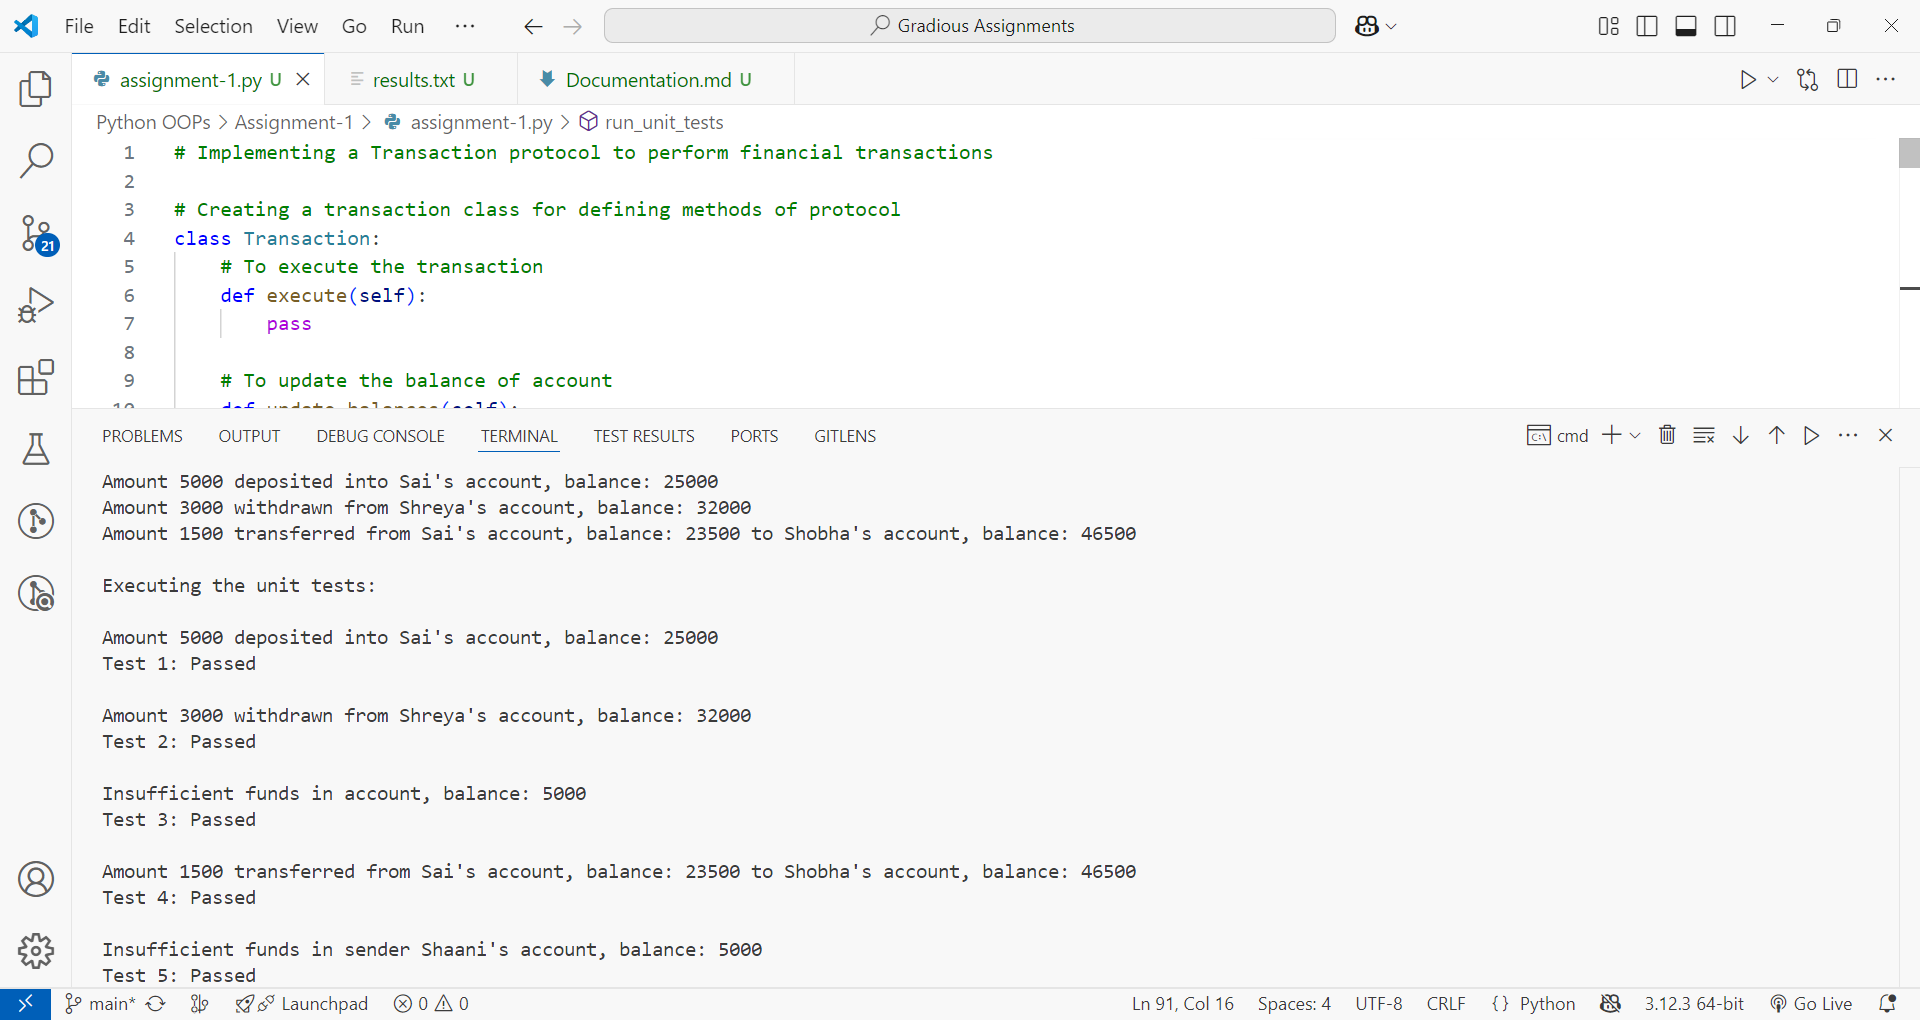
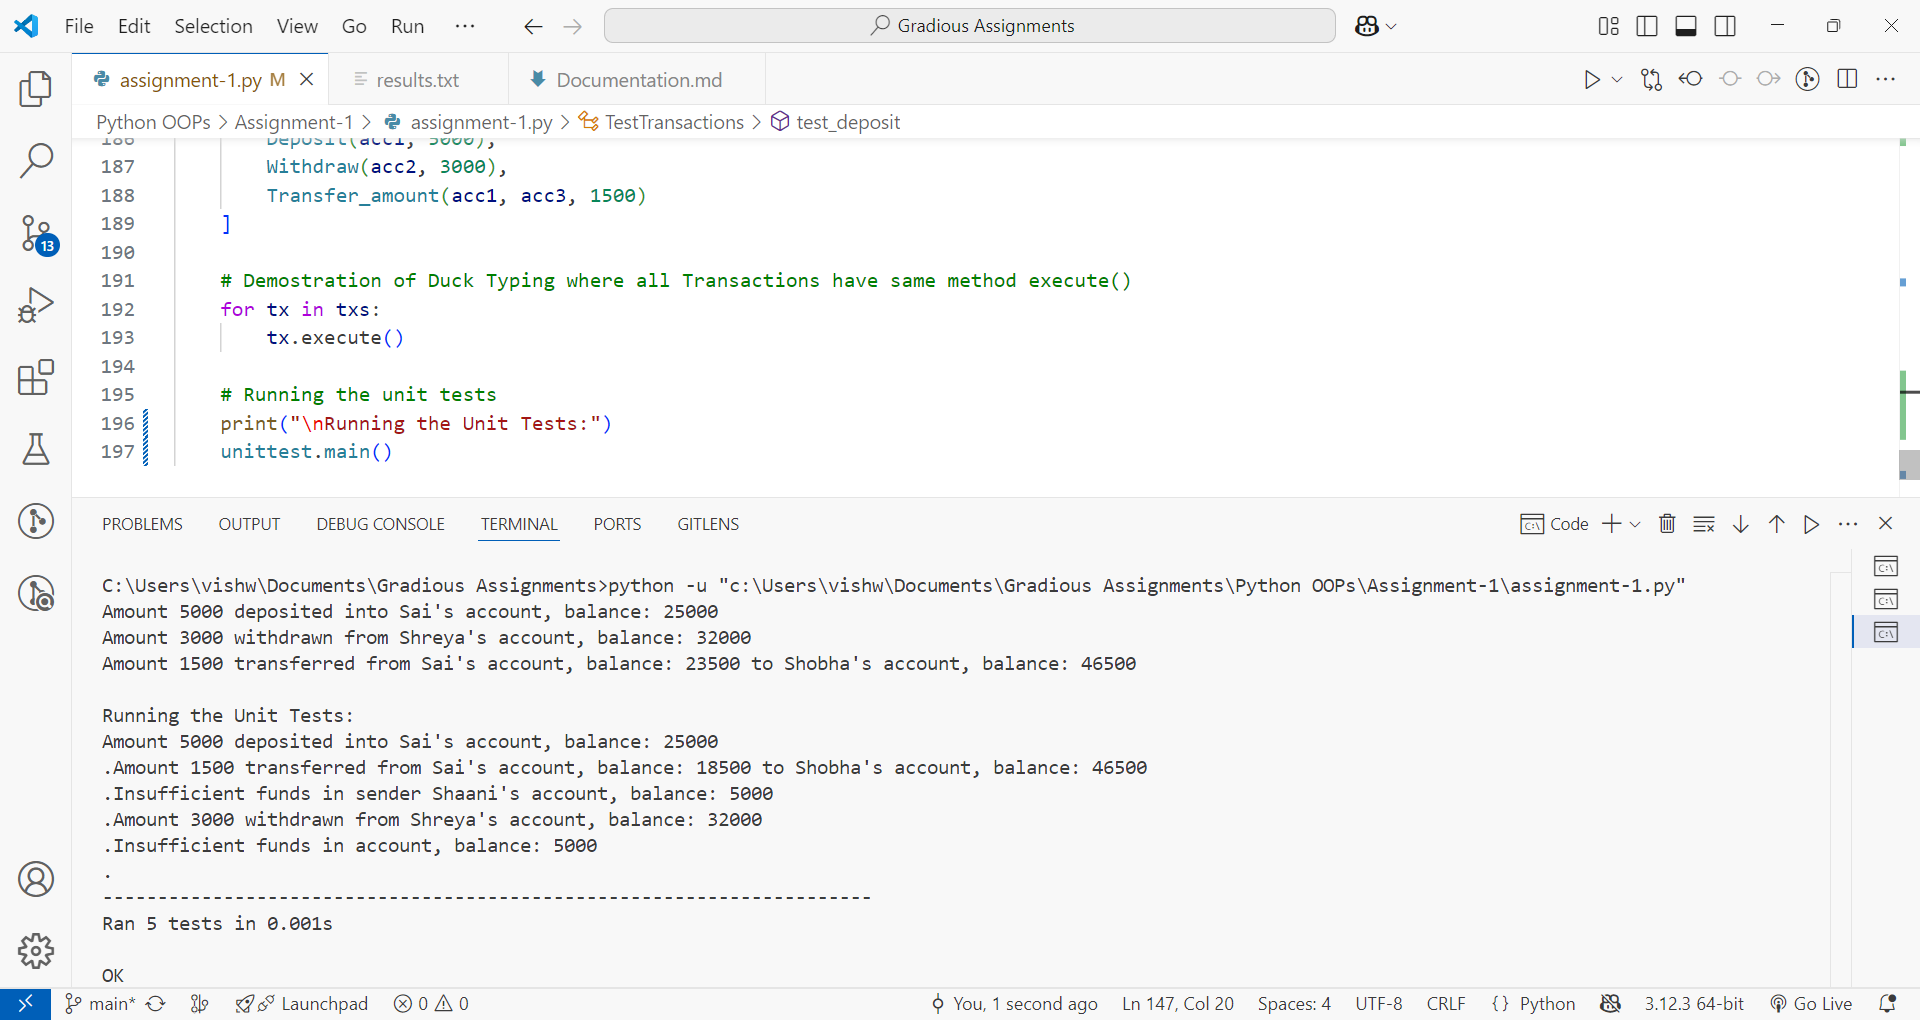
OOPs Assignment-1

diff --git a/Python OOPs/Assignment-1/assignment-1.py b/Python OOPs/Assignment-1/assignment-1.py
@@ -1,3 +1,5 @@
+import unittest
+
 # Implementing a Transaction protocol to perform financial transactions
 
 # Creating a transaction class for defining methods of protocol
@@ -77,7 +79,7 @@ class Transfer_amount(Transaction):
         # Add money to reciever's account
         self.to_acc.balance += self.amount
 
-# Method to run the Unit Tests for all types of Transactions
+# Method to run the Unit Tests for all types of Transactions (Manual method using print statements)
 def run_unit_tests():
     # Sample Accounts
     acc1 = Account("Sai", 20000)
@@ -130,6 +132,47 @@ def run_unit_tests():
     else:
         print("Test 5: Failed")
 
+# Unit Tests for all types of Transactions
+class TestTransactions(unittest.TestCase):
+    def setUp(self):
+        # Sample Accounts
+        self.acc1 = Account("Sai", 20000)
+        self.acc2 = Account("Shreya", 35000)
+        self.acc3 = Account("Shobha", 45000)
+        self.acc4 = Account("Shaani", 5000)
+
+    # Test:1 Deposit amount (Transaction should be successful)
+    def test_deposit(self):
+        d = Deposit(self.acc1, 5000)
+        d.execute()
+        self.assertEqual(self.acc1.balance, 25000)
+
+    # Test 2: Withdraw amount (Transaction should be successful)
+    def test_withdrawal(self):
+        w = Withdraw(self.acc2, 3000)
+        w.execute()
+        self.assertEqual(self.acc2.balance, 32000)
+    
+    # Test 3: Withdraw amount (Transaction should fail due to insufficient funds)
+    def test_withdrawal_fail(self):
+        w = Withdraw(self.acc4, 6000)
+        w.execute()
+        self.assertEqual(self.acc4.balance, 5000)
+
+    # Test 4: Transfer amount (Transaction should be successful)
+    def test_transfer(self):
+        t = Transfer_amount(self.acc1, self.acc3, 1500)
+        t.execute()
+        self.assertEqual(self.acc1.balance, 18500)
+        self.assertEqual(self.acc3.balance, 46500)
+
+    # Test 5: Transfer amount (Transaction should fail due to insufficient funds)
+    def test_transfer_fail(self):
+        t = Transfer_amount(self.acc4, self.acc2, 5500)
+        t.execute()
+        self.assertEqual(self.acc4.balance, 5000)
+        self.assertEqual(self.acc2.balance, 35000)
+
 # Executing the Transactions
 if __name__ == "__main__":
     # Sample Accounts
@@ -150,4 +193,5 @@ if __name__ == "__main__":
         tx.execute()
 
     # Running the unit tests
-    run_unit_tests()
+    print("\nRunning the Unit Tests:")
+    unittest.main()
